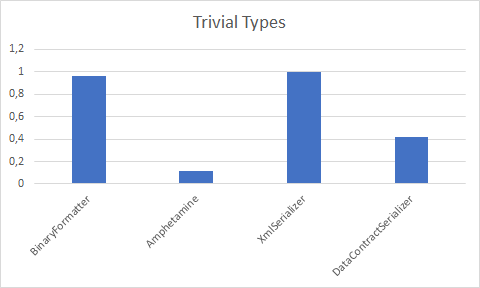
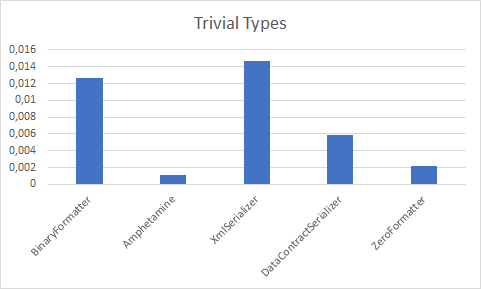
Added ZeroFormatter for performance comparison; Minor changes to AssemblyFoundry

diff --git a/AmphetamineSerializer.PerformanceTests/Program.cs b/AmphetamineSerializer.PerformanceTests/Program.cs
@@ -8,9 +8,12 @@ using System.Linq;
 using System.Runtime.Serialization;
 using System.Runtime.Serialization.Formatters.Binary;
 using System.Xml.Serialization;
+using ZeroFormatter;
+using ZeroFormatter.Formatters;
 
 namespace AmphetamineSerializer.PerformanceTests
 {
+
     class Program
     {
         const int totalIterations = 1000;
@@ -19,14 +22,14 @@ namespace AmphetamineSerializer.PerformanceTests
         {
             Console.WriteLine($"Number of iterations: {totalIterations}");
             Console.WriteLine();
-            TestSerialization<TestTrivialTypes>();
-            TestSerialization<Test1DArray>();
-            TestSerialization<TestJaggedArray>();
-            TestSerialization<TestFull>();
+            TestSerialization<TestTrivialTypes, ZeroTrivialTypes>();
+            TestSerialization<Test1DArray, ZeroTest1DArray>();
+            TestSerialization<TestJaggedArray, ZeroTestJaggedArray>();
+            TestSerialization<TestFull, ZeroTestFull>();
             Console.ReadKey();
         }
 
-        static void TestSerialization<T>()
+        static void TestSerialization<T, V>()
         {
             Console.WriteLine(new string('+', 10));
             Console.WriteLine($"Starting {typeof(T).Name}");
@@ -36,11 +39,13 @@ namespace AmphetamineSerializer.PerformanceTests
             List<double> s2Performance = new List<double>();
             List<double> s3Performance = new List<double>();
             List<double> s4Performance = new List<double>();
+            List<double> s5Performance = new List<double>();
 
             BinaryFormatter serializer1 = new BinaryFormatter();
             Serializator<T> serializer2 = new Serializator<T>();
             XmlSerializer serializer3 = new XmlSerializer(typeof(T));
             DataContractSerializer serializer4 = new DataContractSerializer(typeof(T));
+
 
             foreach (var idx in Enumerable.Range(1, totalIterations))
             {
@@ -48,15 +53,18 @@ namespace AmphetamineSerializer.PerformanceTests
                 using (var stream2 = new BinaryWriter(new MemoryStream()))
                 using (var stream3 = new MemoryStream())
                 using (var stream4 = new MemoryStream())
+                using (var stream5 = new MemoryStream())
                 {
 
                     Fixture fixture = new Fixture();
                     T toSerialize = fixture.Create<T>();
+                    V zeroToSerialize = fixture.Create<V>();
 
                     Stopwatch t1 = new Stopwatch();
                     Stopwatch t2 = new Stopwatch();
                     Stopwatch t3 = new Stopwatch();
                     Stopwatch t4 = new Stopwatch();
+                    Stopwatch t5 = new Stopwatch();
 
                     t1.Start();
                     serializer1.Serialize(stream1, toSerialize);
@@ -73,6 +81,10 @@ namespace AmphetamineSerializer.PerformanceTests
                     t4.Start();
                     serializer4.WriteObject(stream4, toSerialize);
                     t4.Stop();
+                                        
+                    t5.Start();
+                    ZeroFormatterSerializer.Serialize(stream5, zeroToSerialize);
+                    t5.Stop();
 
                     if (idx != 1)
                     {
@@ -80,31 +92,35 @@ namespace AmphetamineSerializer.PerformanceTests
                         s2Performance.Add(t2.Elapsed.TotalMilliseconds);
                         s3Performance.Add(t3.Elapsed.TotalMilliseconds);
                         s4Performance.Add(t4.Elapsed.TotalMilliseconds);
+                        s5Performance.Add(t5.Elapsed.TotalMilliseconds);
                     }
                 }
             }
 
-            double[] meanTime = new double[4];
-            double[] percentage = new double[4];
+            double[] meanTime = new double[5];
+            double[] percentage = new double[5];
             string[] messages = new string[]
             {
                 "Mean time BinaryFormatter:",
                 "Mean time Amphetamine:",
                 "Mean time XmlSerializer:",
-                "Mean time DataContractSerializer:"
+                "Mean time DataContractSerializer:",
+                "Mean time ZeroFormatter:"
             };
 
             meanTime[0] = s1Performance.Aggregate((_1, _2) => _1 + _2) / totalIterations;
             meanTime[1] = s2Performance.Aggregate((_1, _2) => _1 + _2) / totalIterations;
             meanTime[2] = s3Performance.Aggregate((_1, _2) => _1 + _2) / totalIterations;
             meanTime[3] = s4Performance.Aggregate((_1, _2) => _1 + _2) / totalIterations;
+            meanTime[4] = s5Performance.Aggregate((_1, _2) => _1 + _2) / totalIterations;
 
-            var min = meanTime.Min();
+            var min = meanTime.Max();
 
             percentage[0] = meanTime[0] / min;
             percentage[1] = meanTime[1] / min;
             percentage[2] = meanTime[2] / min;
             percentage[3] = meanTime[3] / min;
+            percentage[4] = meanTime[4] / min;
 
             var beginPosition = messages.Select(x => x.Length).Max() + 1;
             var endPosition = Console.BufferWidth - 5;
@@ -121,8 +137,8 @@ namespace AmphetamineSerializer.PerformanceTests
             for (int i = 0; i < messages.Length; i++)
             {
                 Console.Write(messages[i]);
-                Console.CursorLeft = beginPosition;
-                Console.WriteLine(bars[i]);
+                //Console.CursorLeft = beginPosition;
+                Console.WriteLine(meanTime[i]);
             }
 
             //Console.WriteLine($"Mean time BinaryFormatter:  {percentage[0]}");

diff --git a/AmphetamineSerializer.Tests/ZeroFormattableTestClasses.cs b/AmphetamineSerializer.Tests/ZeroFormattableTestClasses.cs
@@ -1,0 +1,96 @@
+using ZeroFormatter;
+
+namespace AmphetamineSerializer.Tests
+{
+    [ZeroFormattable]
+    public class ZeroTrivialTypes
+    {
+        [Index(0)] public virtual uint Test1_Field0 { get; set; }
+        [Index(1)] public virtual int Test1_Field1 { get; set; }
+        [Index(2)] public virtual ushort Test1_Field2 { get; set; }
+        [Index(3)] public virtual short Test1_Field3 { get; set; }
+        [Index(4)] public virtual sbyte Test1_Field4 { get; set; }
+        [Index(5)] public virtual byte Test1_Field5 { get; set; }
+        [Index(6)] public virtual string Test1_Field6 { get; set; }
+    }
+    
+    [ZeroFormattable]
+    public class ZeroTest1DArray
+    {
+        [Index(00)] public virtual uint Test1_Field0 {get;set;}
+        [Index(01)] public virtual int Test1_Field1 {get;set;}
+        [Index(02)] public virtual ushort Test1_Field2 {get;set;}
+        [Index(03)] public virtual short Test1_Field3 {get;set;}
+        [Index(04)] public virtual sbyte Test1_Field4 {get;set;}
+        [Index(05)] public virtual byte Test1_Field5 {get;set;}
+        [Index(06)] public virtual string Test1_Field6 {get;set;}
+
+        [Index(07)] public virtual uint[] Test1_Field7 {get;set;}
+        [Index(08)] public virtual int[] Test1_Field8 {get;set;}
+        [Index(09)] public virtual ushort[] Test1_Field9 {get;set;}
+        [Index(10)] public virtual short[] Test1_Field10 {get;set;}
+        [Index(11)] public virtual sbyte[] Test1_Field11 {get;set;}
+        [Index(12)] public virtual byte[] Test1_Field12 {get;set;}
+        [Index(13)] public virtual string[] Test1_Field13 {get;set;}
+    }
+
+    [ZeroFormattable]
+    public class ZeroTestJaggedArray
+    {
+        [Index(00)] public virtual uint Test1_Field0 {get;set;}
+        [Index(01)] public virtual int Test1_Field1 {get;set;}
+        [Index(02)] public virtual ushort Test1_Field2 {get;set;}
+        [Index(03)] public virtual short Test1_Field3 {get;set;}
+        [Index(04)] public virtual sbyte Test1_Field4 {get;set;}
+        [Index(05)] public virtual byte Test1_Field5 {get;set;}
+        [Index(06)] public virtual string Test1_Field6 {get;set;}
+
+        [Index(07)] public virtual uint[] Test1_Field7 {get;set;}
+        [Index(08)] public virtual int[] Test1_Field8 {get;set;}
+        [Index(09)] public virtual ushort[] Test1_Field9 {get;set;}
+        [Index(10)] public virtual short[] Test1_Field10 {get;set;}
+        [Index(11)] public virtual sbyte[] Test1_Field11 {get;set;}
+        [Index(12)] public virtual byte[] Test1_Field12 {get;set;}
+        [Index(13)] public virtual string[] Test1_Field13 {get;set;}
+
+        [Index(14)] public virtual uint[][] Test1_Field14 {get;set;}
+        [Index(15)] public virtual int[][] Test1_Field15 {get;set;}
+        [Index(16)] public virtual ushort[][] Test1_Field16 {get;set;}
+        [Index(17)] public virtual short[][] Test1_Field17 {get;set;}
+        [Index(18)] public virtual sbyte[][] Test1_Field18 {get;set;}
+        [Index(19)] public virtual byte[][] Test1_Field19 {get;set;}
+        [Index(20)] public virtual string[][] Test1_Field20 {get;set;}
+    }
+
+    [ZeroFormattable]
+    public class ZeroTestFull
+    {
+        [Index(00)] public virtual uint Test_Field0 {get;set;}
+        [Index(01)] public virtual int Test_Field1 {get;set;}
+        [Index(02)] public virtual ushort Test_Field2 {get;set;}
+        [Index(03)] public virtual short Test_Field3 {get;set;}
+        [Index(04)] public virtual sbyte Test_Field4 {get;set;}
+        [Index(05)] public virtual byte Test_Field5 {get;set;}
+        [Index(06)] public virtual string Test_Field6 {get;set;}
+
+        [Index(07)] public virtual uint[] Test_Field7 {get;set;}
+        [Index(08)] public virtual int[] Test_Field8 {get;set;}
+        [Index(09)] public virtual ushort[] Test_Field9 {get;set;}
+        [Index(10)] public virtual short[] Test_Field10 {get;set;}
+        [Index(11)] public virtual sbyte[] Test_Field11 {get;set;}
+        [Index(12)] public virtual byte[] Test_Field12 {get;set;}
+        [Index(13)] public virtual string[] Test_Field13 {get;set;}
+
+        [Index(14)] public virtual uint[][] Test_Field14 {get;set;}
+        [Index(15)] public virtual int[][] Test_Field15 {get;set;}
+        [Index(16)] public virtual ushort[][] Test_Field16 {get;set;}
+        [Index(17)] public virtual short[][] Test_Field17 {get;set;}
+        [Index(18)] public virtual sbyte[][] Test_Field18 {get;set;}
+        [Index(19)] public virtual byte[][] Test_Field19 {get;set;}
+        [Index(20)] public virtual string[][] Test_Field20 {get;set;}
+
+        [Index(21)] public virtual ZeroTestJaggedArray Test_Field21 {get;set;}
+        [Index(22)] public virtual ZeroTestJaggedArray[] Test_Field22 {get;set;}
+        [Index(23)] public virtual ZeroTestJaggedArray[][] Test_Field23 {get;set;}
+    }
+}

diff --git a/AmphetamineSerializer/AssemblyFoundry.cs b/AmphetamineSerializer/AssemblyFoundry.cs
@@ -279,14 +279,12 @@ namespace AmphetamineSerializer
                 {
                     HandleType(ctx);
 
-                    bool callEmiter =
-                        response.Status == BuildedFunctionStatus.FunctionFinalizedTypeNotFinalized ||
-                        response.Status == BuildedFunctionStatus.FunctionNotFinalized;
-
-                    if (callEmiter)
+                    if (response.Status != BuildedFunctionStatus.TypeFinalized)
                         ctx.G.Call(response.Emiter, null);
                     else if (method != null)
                         ctx.G.Call(response.Method, null);
+                    //else
+                    //    throw new InvalidOperationException("Unable to call builded method.");
                 }
 
                 if (ctx.LoopCtx.Count > 0)
